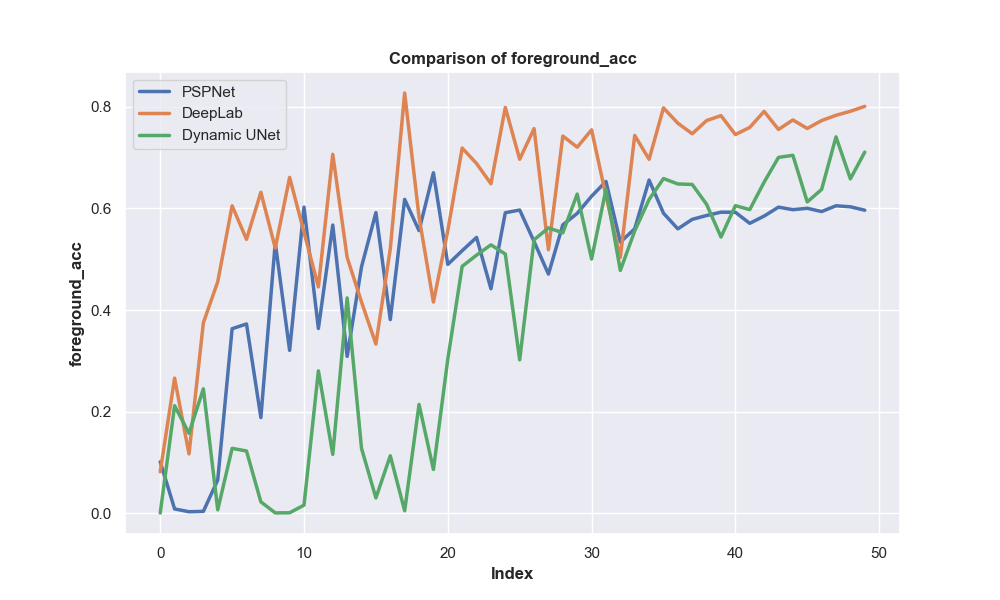
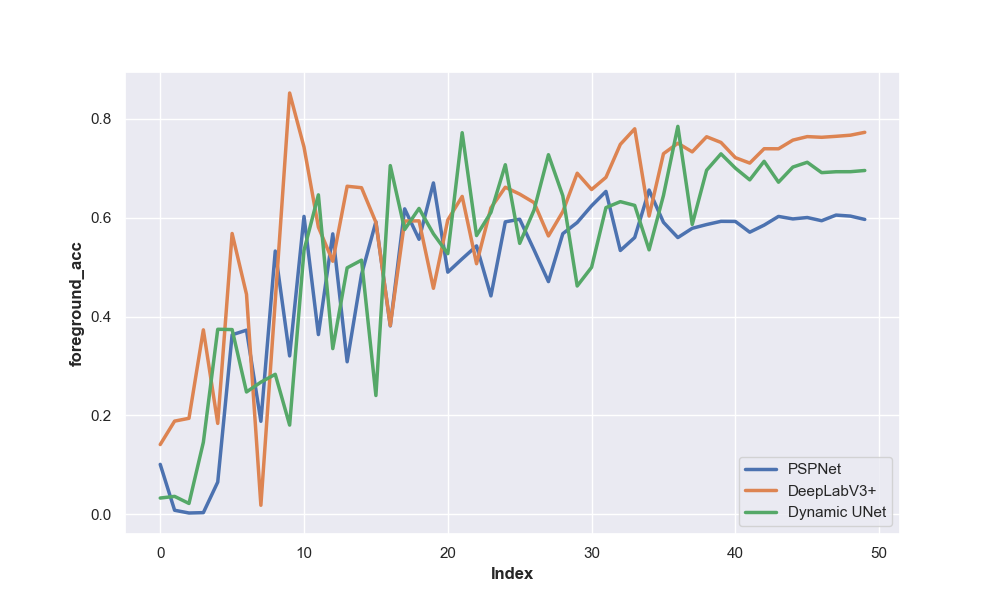
Update graphics.py to plot jaccard_coeff_multi comparison

diff --git a/src/evaluate/graphics.py b/src/evaluate/graphics.py
@@ -41,7 +41,7 @@ def plot_dfs(csv_paths, dataframe_names, column_name, output_path, n_rows=None, 
             sns.lineplot(data=df, x=df.index, y=column_name, label=name, linewidth=line_width)
 
         # Customize the plot with bold axis titles
-        plt.title(f'Comparison of {column_name}', fontweight='bold')
+        # plt.title(f'Comparison of {column_name}', fontweight='bold')
         plt.xlabel('Index', fontweight='bold')
         plt.ylabel(column_name, fontweight='bold')
 
@@ -62,9 +62,9 @@ if __name__ == '__main__':
         'results/logs/unet_metrics.csv'
     ]
     dataframe_names = ['PSPNet', 'DeepLabV3+', 'Dynamic UNet']
-    column_name = 'train_loss'
-    output_path = 'results/figures/train_loss_comparison.png'
+    column_name = 'jaccard_coeff_multi'
+    output_path = 'results/figures/jaccard_coeff_multi_comparison.png'
     n_rows = 50
-    style = "darkgrid"
+    style = ["whitegrid", "darkgrid"]
 
-    plot_dfs(csv_paths, dataframe_names, column_name, output_path, n_rows, style)
+    plot_dfs(csv_paths, dataframe_names, column_name, output_path, n_rows, style[1])
